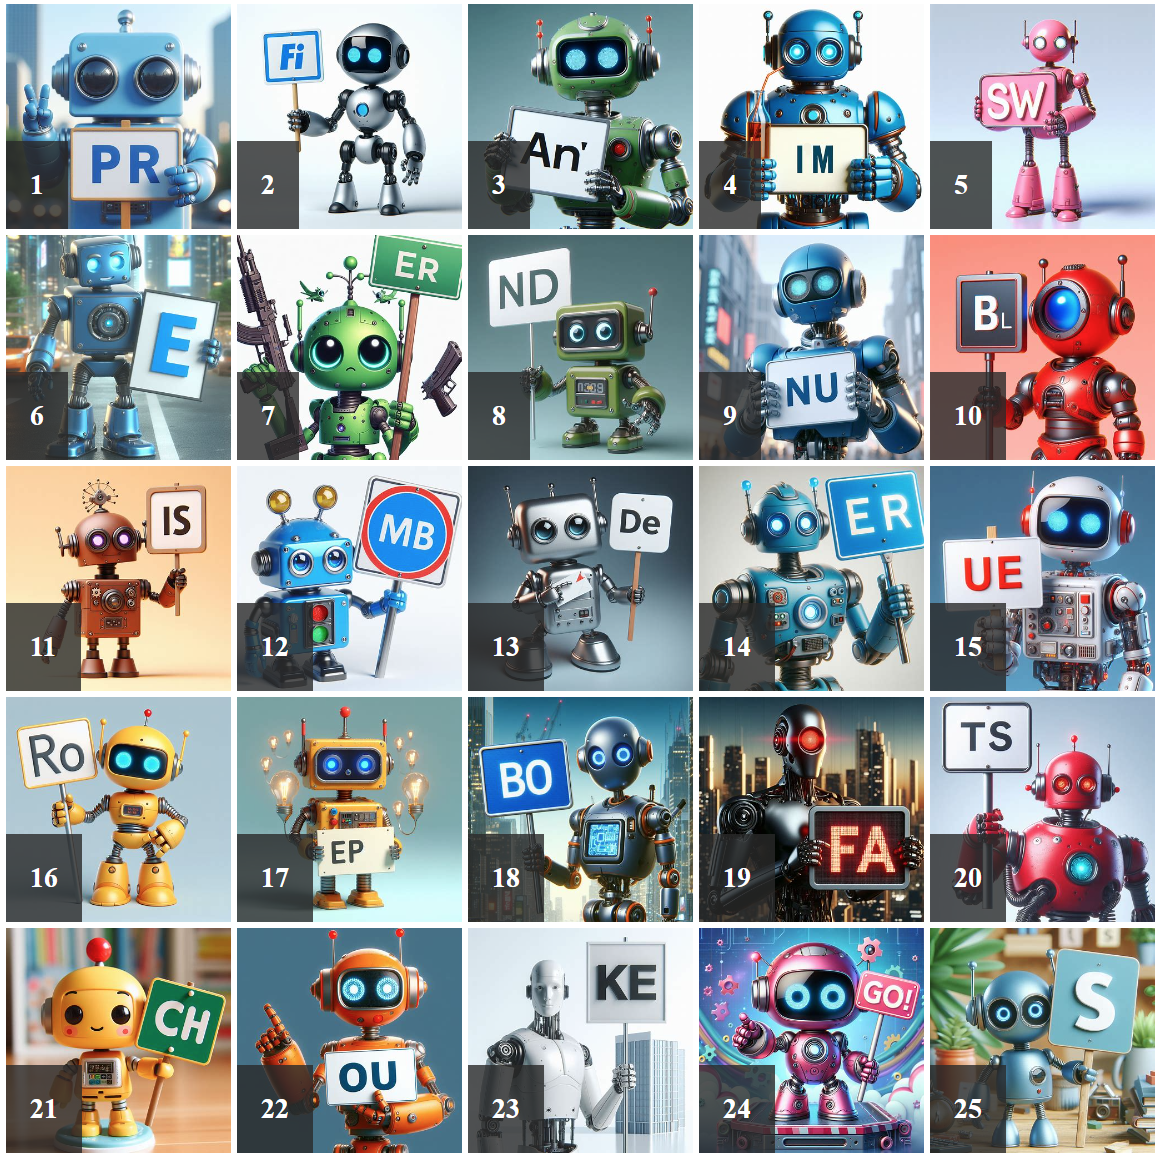
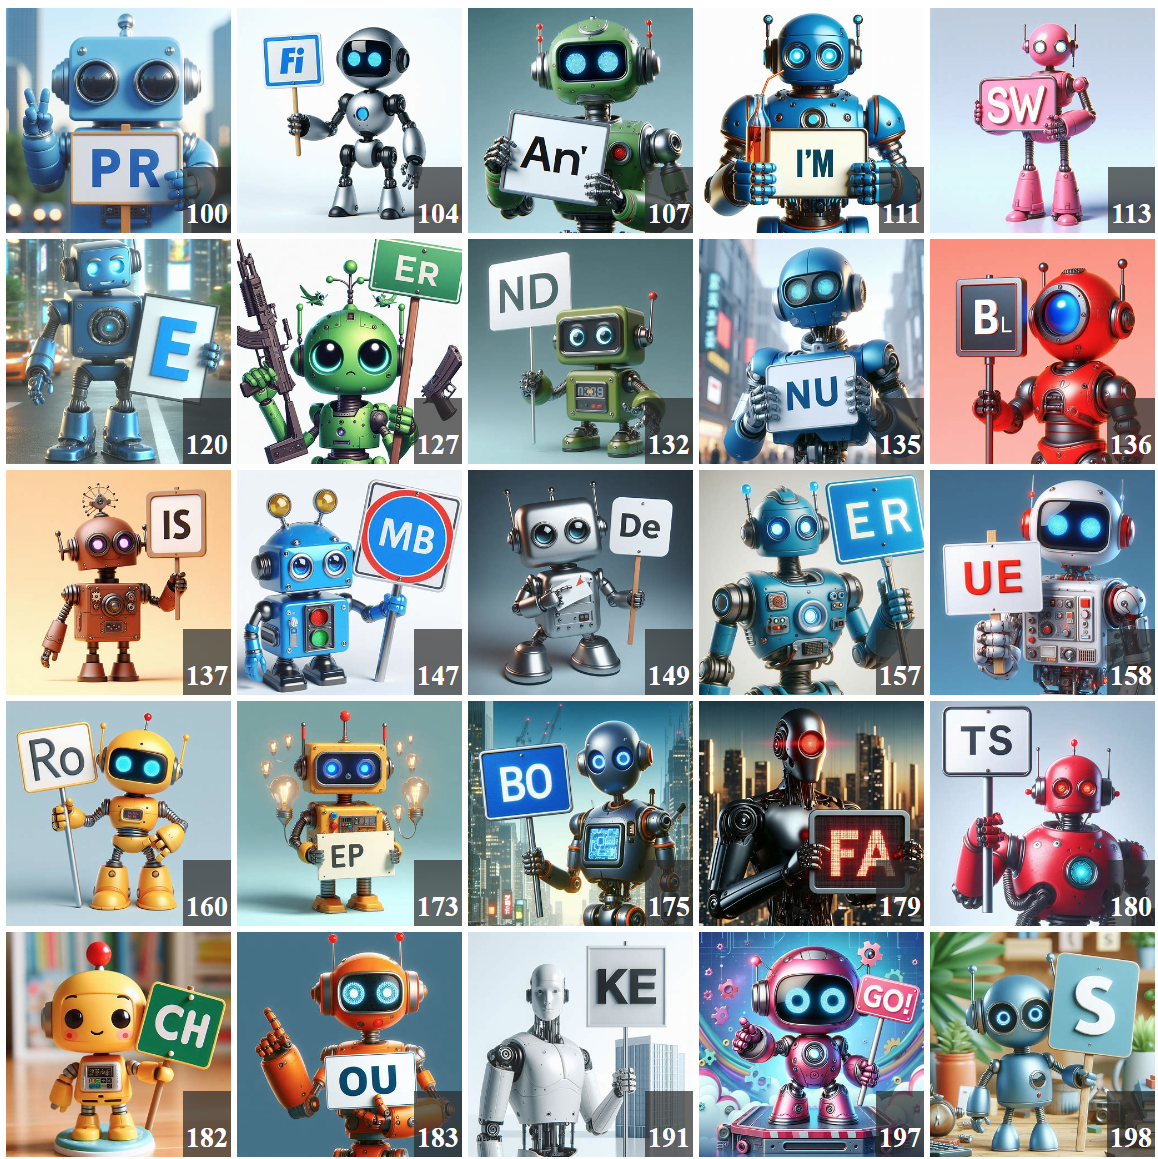
fixed puzzle 6

diff --git a/puzzle07/puzzle6/temp.html b/puzzle07/puzzle6/temp.html
@@ -11,10 +11,11 @@
         .text-container {
             position: absolute;
             color: rgb(255, 255, 255);
-            left: 0px;
+            right: 0px;
             bottom: 0px;
-            background-color: rgb(41, 41, 41, 0.8);
-            padding: 0 1rem;
+            background-color: rgb(41, 41, 41, 0.7);
+            padding: 2px;
+            height: 40px;
         }
 </style>
 
@@ -23,18 +24,29 @@
 
 var s = "";
 
+
+// 3, 5, 7, 11, 13, 17, 19, 23
+
+var numbers = [
+  100, 104, 107 , 111, 113 , 
+  120, 127 , 132, 135, 136, 
+  137 , 147, 149 , 157, 158, 
+  160, 173 , 175, 179 , 180, 
+  182, 183, 191 , 197, 198, 
+];
+
   for (var i =0; i < 25; i++) {
 
    
     
-    var num = i+1;
+    var label = numbers[i];
 
+    var num = i + 1;
 
-
-s += '<div class="gfg" >';
-  s += '<img src="assets/'+num+'.jpg" width="150" height="150" />';
-  s += '<div class="text-container">';
-    s += '<h3>'+num+'</h3>';
+    s += '<div class="gfg" >';
+    s += '<img src="assets/'+num+'.jpg" width="150" height="150" />';
+    s += '<div class="text-container">';
+    s += '<h3>'+label+'</h3>';
     s += '</div>';
     s += '</div>';
 

diff --git a/puzzle07/index.html b/puzzle07/index.html
@@ -66,7 +66,7 @@
       </div>
       <div class="row mb-2">
         <script>app.printPuzzleBlock(5, "Solve This", "Explore the first puzzle through the power of reading.");</script>
-        <script>app.printPuzzleBlock(6, "View This", "Explore the first puzzle through the power of reading.");</script>
+        <script>app.printPuzzleBlock(6, "View This", "Check out these robots!");</script>
       </div>
       <div class="row mb-2">
         <script>app.printPuzzleBlock(7, "Listen This", "Explore the first puzzle through the power of reading.");</script>
